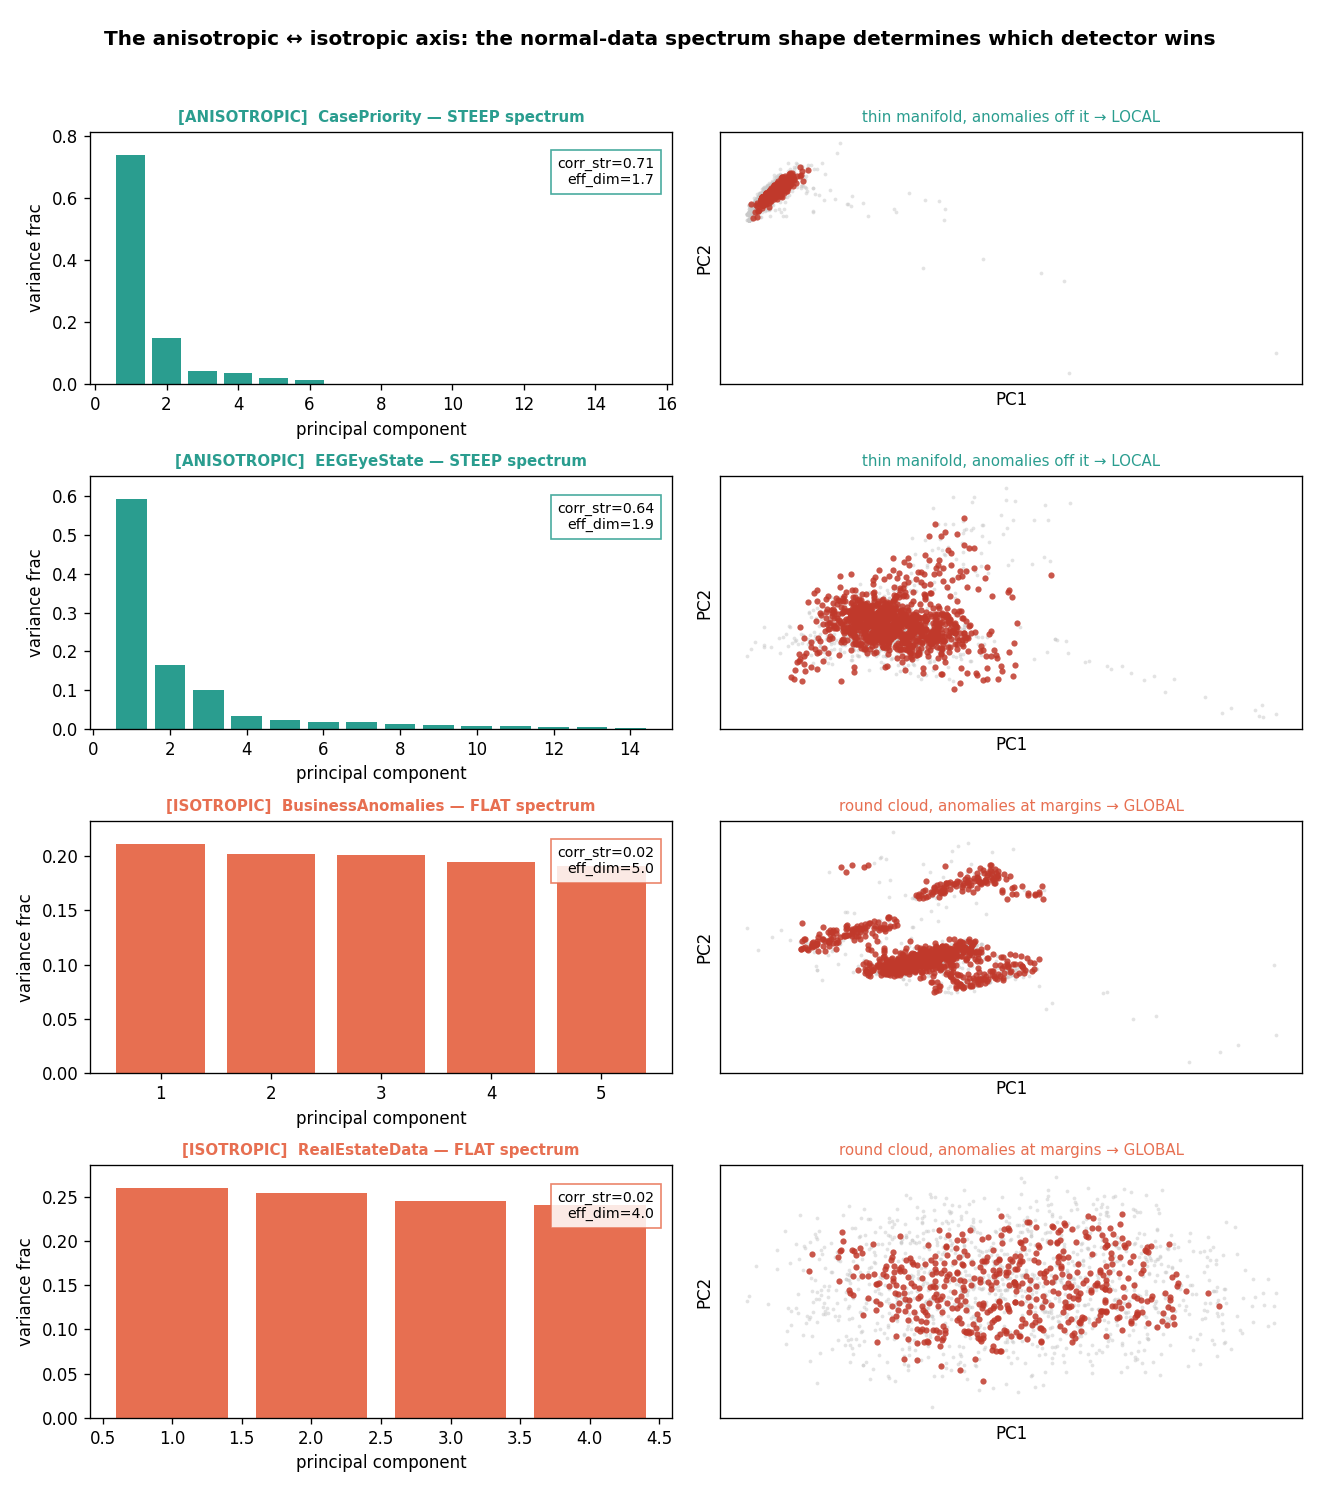
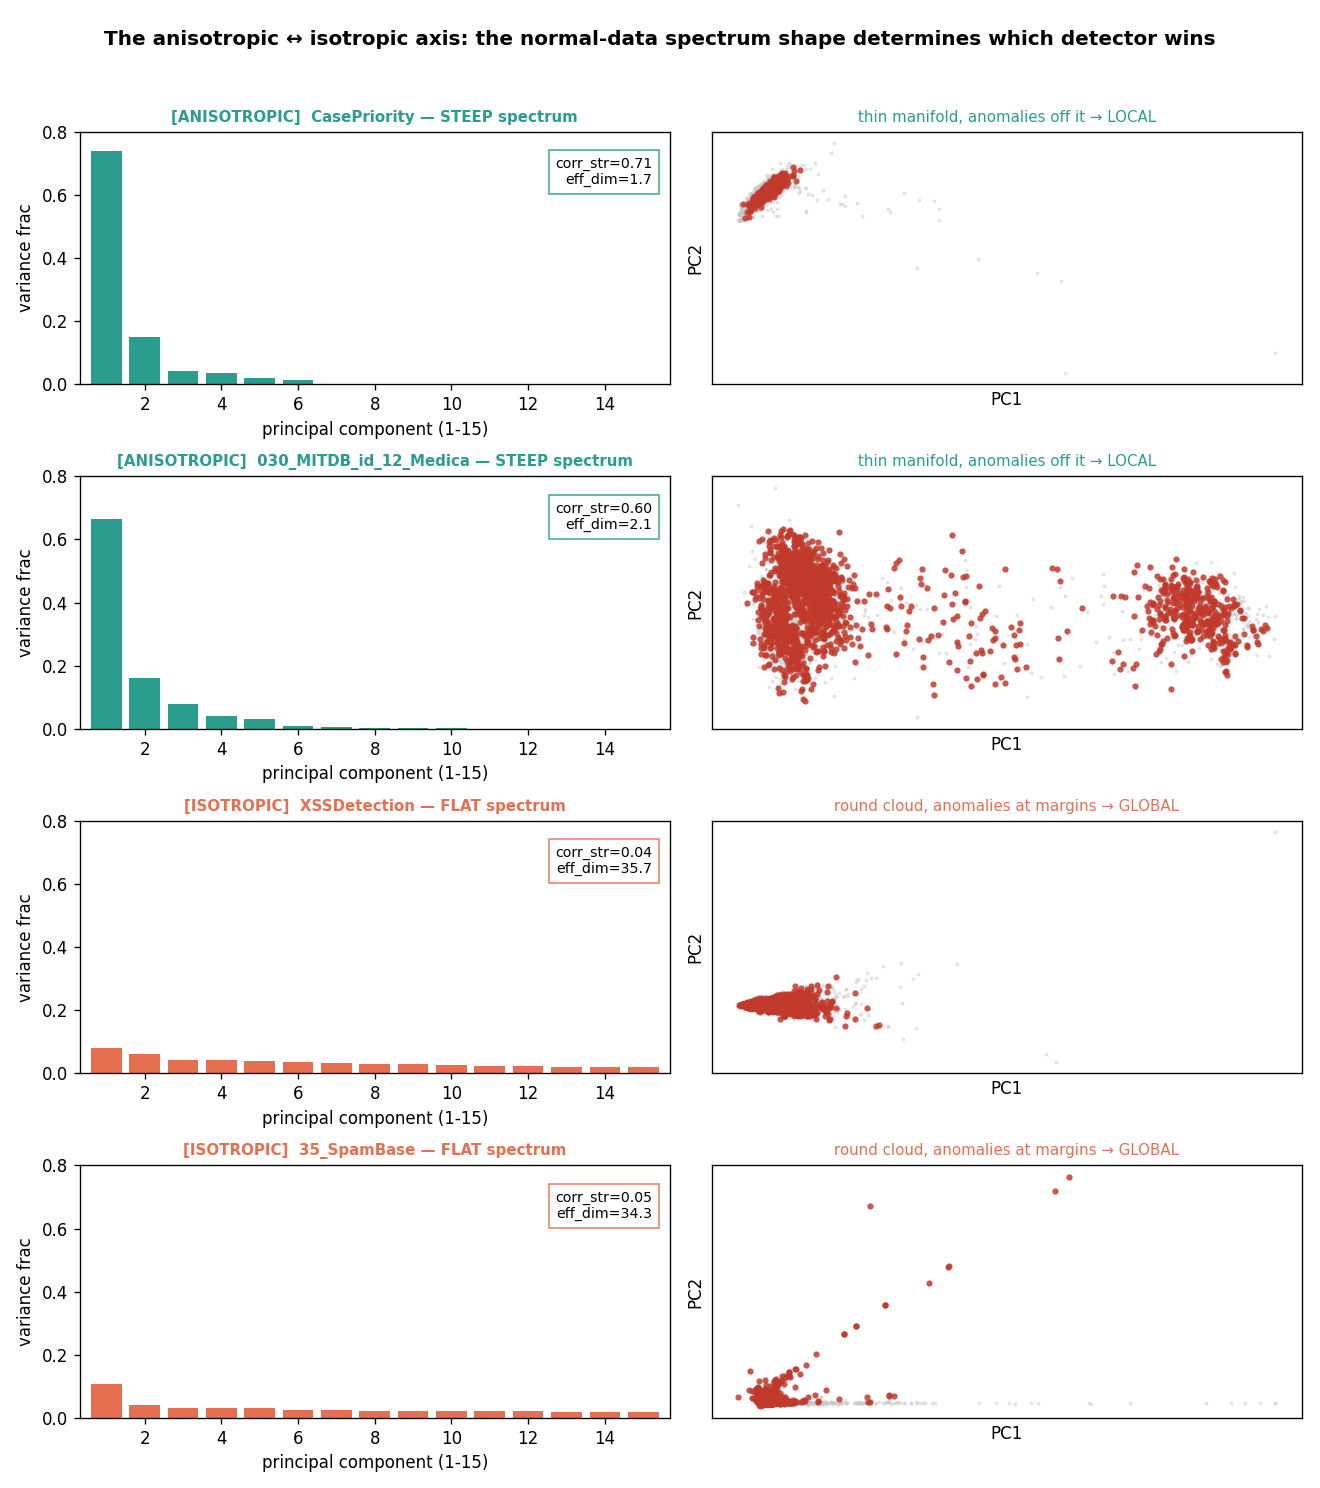
EDA visuals: anisotropic<->isotropic mechanism figure + refreshed spectrum figure
- eda_mechanism.py / FIG_mechanism.png: 2-row (anisotropic/isotropic) x 3-col
  mechanism panel. Col1 most-correlated feature pair (dependency anomalies sit
  off the correlation line, in-range per-axis); col2 marginal histogram of the
  best-separating single feature (anisotropic anomalies overlap normals /
  marginally invisible, isotropic form a separate tail); col3 KNN(local) vs
  HBOS(global) detector scores. Exemplars CasePriority (corr_str 0.71) vs
  BusinessAnomalies (0.02).
- eda_spectrum.py / FIG_spectrum_eda.png: refreshed to common axes (first 15 PCs,
  fixed ylim/xlim) so the steep-vs-flat spectrum contrast reads on a shared scale.

diff --git a/experiments/streamline/eda_mechanism.py b/experiments/streamline/eda_mechanism.py
@@ -1,0 +1,97 @@
+# -*- coding: utf-8 -*-
+"""Mechanism figure: WHY the detector family flips. Row1 = ANISOTROPIC exemplar, Row2 = ISOTROPIC.
+Col1: most-correlated feature PAIR (normals grey + anomalies red) - dependency anomalies sit OFF the
+correlation line while in-range on each axis; isotropic anomalies sit at the margins of a round blob.
+Col2: marginal histogram of the single best-separating feature - anomalies OVERLAP normals (anisotropic:
+marginally invisible) vs form a separate tail (isotropic: marginally visible).
+Col3: local (KNN) vs global (HBOS) detector score - which detector actually separates the anomalies."""
+import os, sys, warnings
+import numpy as np, pandas as pd
+import matplotlib; matplotlib.use("Agg"); import matplotlib.pyplot as plt
+from sklearn.preprocessing import StandardScaler
+from sklearn.decomposition import PCA
+from pyod.models.knn import KNN
+from pyod.models.hbos import HBOS
+warnings.filterwarnings("ignore")
+ROOT = r"E:\Projects\Submitted\ADRank"; S = r"E:\tmp\claude\E--Projects-Submitted-ADRank\236d6247-42ad-4e62-9828-db625dfa055d"
+D = os.path.join(S, "scratchpad", "streamline"); sys.path.insert(0, os.path.join(S, "scratchpad")); sys.path.insert(0, os.path.join(ROOT, "src"))
+import adrank.pipeline as PP
+from hadb_ts_final import W, STRIDE, block_split3
+from hadb_ts_mts import mts_window_features, window_labels as mts_wlabels, load_mts
+Q = 0.05
+OBJ = {}
+for sub in ("adbench", "dami"):
+    dd = os.path.join(ROOT, "data", sub)
+    if os.path.isdir(dd):
+        for ds in PP.load_npz_dir(dd): OBJ[(sub, str(ds.name)[:40])] = (np.nan_to_num(np.asarray(ds.X, float)), np.asarray(ds.y, int).ravel())
+MTS = {}
+for name, src, Xc, lab in load_mts(200): MTS[str(name)[:40]] = (Xc, lab)
+def severity(Xtr, X, bins=30):
+    n, d = X.shape; sev = np.zeros(n)
+    for j in range(d):
+        tr = np.sort(Xtr[:, j])
+        if tr[-1] - tr[0] < 1e-12: continue
+        m = len(tr); fb = np.searchsorted(tr, X[:, j], side="right") / m
+        cnt, edges = np.histogram(Xtr[:, j], bins=bins); dens = cnt / max(cnt.sum(), 1); b = np.clip(np.digitize(X[:, j], edges[1:-1]), 0, bins - 1)
+        sev = np.maximum(sev, np.maximum(-np.log(np.maximum(2 * np.minimum(fb, 1 - fb), 1.0 / (2 * m))), -np.log(dens[b] + 1e-9)))
+    return sev
+def harden(Xtr, Xhold, Xa):
+    tho = np.quantile(severity(Xtr, Xhold), 1 - Q); so_a = severity(Xtr, Xa)
+    try:
+        sc = StandardScaler().fit(Xtr); pca = PCA(n_components=0.95, whiten=True, random_state=0).fit(sc.transform(Xtr))
+        Ptr, Ph, Pa = pca.transform(sc.transform(Xtr)), pca.transform(sc.transform(Xhold)), pca.transform(sc.transform(Xa))
+        thp = np.quantile(severity(Ptr, Ph), 1 - Q); sp_a = severity(Ptr, Pa)
+    except Exception:
+        sp_a = np.zeros(len(Xa)); thp = np.inf
+    return Xa[~((so_a > tho) | (sp_a > thp))]
+def get3(corp, name):
+    if corp in ("oddbench", "ovrbench"):
+        d = np.load(os.path.join(ROOT, "data", corp, name + ".npz"), allow_pickle=True)
+        X = np.nan_to_num(np.vstack([np.asarray(d["train"], float), np.asarray(d["test"], float)])); y = np.concatenate([np.asarray(d["train_labels"]).ravel(), np.asarray(d["test_labels"]).ravel()]).astype(int); Xn, Xa = X[y == 0], X[y == 1]
+    elif corp in ("adbench", "dami"):
+        X, y = OBJ[(corp, name)]; Xn, Xa = X[y == 0], X[y == 1]
+    else:
+        Xc, lab = MTS[name]; Xw, st = mts_window_features(Xc); yw = mts_wlabels(lab, st); Xw = np.nan_to_num(Xw)
+        pos = np.arange(len(Xw)); tr, va, te = block_split3(yw, pos, 0); return Xw[tr][yw[tr] == 0], Xw[va][yw[va] == 0], Xw[te][yw[te] == 0], Xw[yw == 1]
+    r = np.random.default_rng(0)
+    if len(Xn) > 6000: Xn = Xn[r.choice(len(Xn), 6000, replace=False)]
+    idx = np.arange(len(Xn)); r.shuffle(idx); a, b = int(0.6 * len(idx)), int(0.8 * len(idx)); return Xn[idx[:a]], Xn[idx[a:b]], Xn[idx[b:]], Xa
+mine = pd.read_csv(os.path.join(D, "STREAM_MINE.csv"))
+def first_ok(cand):
+    for _, r in cand.iterrows():
+        try: Xtr, Xval, Xtn, Xa = get3(r.corpus, r.dataset)
+        except Exception: continue
+        if Xtr.shape[1] < 4 or len(Xtr) < 80 or len(Xa) < 15: continue
+        Xh = harden(Xtr, np.vstack([Xval, Xtn]), Xa)
+        if len(Xh) < 25: continue
+        return (r.corpus, r.dataset, r.corr_str, Xtr, Xtn, Xh)
+    return None
+exA = first_ok(mine[mine.fam == "local"].sort_values("corr_str", ascending=False))
+exI = first_ok(mine[mine.fam == "global"].sort_values("corr_str"))
+fig, axes = plt.subplots(2, 3, figsize=(15, 8.4))
+for row, (corp, name, cs, Xtr, Xtn, Xh) in enumerate([exA, exI]):
+    col = "#2a9d8f" if row == 0 else "#e76f51"; tag = "ANISOTROPIC" if row == 0 else "ISOTROPIC"
+    Z = StandardScaler().fit(Xtr); Ztr = Z.transform(Xtr); Zh = Z.transform(Xh)
+    # col1: most-correlated feature pair
+    C = np.corrcoef(Ztr.T); np.fill_diagonal(C, 0); i, j = np.unravel_index(np.argmax(np.abs(C)), C.shape); r_ij = C[i, j]
+    ax = axes[row, 0]; ax.scatter(Ztr[:, i], Ztr[:, j], s=6, c="#c8c8c8", alpha=.4, linewidths=0); ax.scatter(Zh[:, i], Zh[:, j], s=16, c="#c0392b", alpha=.8, linewidths=0)
+    ax.set_title(f"[{tag}] top feature pair (r={r_ij:+.2f})\n{'anomalies OFF the correlation line' if row==0 else 'anomalies at the cloud margin'}", fontsize=9, color=col)
+    ax.set_xlabel(f"feature {i}"); ax.set_ylabel(f"feature {j}")
+    # col2: marginal histogram of best-separating single feature
+    sep = np.abs(Zh.mean(0)) ; k = int(np.argmax(sep))
+    ax = axes[row, 1]; ax.hist(Ztr[:, k], bins=50, density=True, color="#9bb", alpha=.6, label="normal"); ax.hist(Zh[:, k], bins=30, density=True, color="#c0392b", alpha=.6, label="anomaly")
+    ax.set_title(f"best single feature (feat {k})\n{'anomalies OVERLAP normals (marginally invisible)' if row==0 else 'anomalies form a separate tail (visible)'}", fontsize=9, color=col)
+    ax.set_xlabel(f"feature {k} (standardized)"); ax.set_ylabel("density"); ax.legend(fontsize=8)
+    # col3: KNN (local) vs HBOS (global) detector score
+    kn = KNN(n_neighbors=10).fit(Xtr); hb = HBOS(n_bins=20).fit(Xtr)
+    Xte = np.vstack([Xtn, Xh]); yb = np.r_[np.zeros(len(Xtn)), np.ones(len(Xh))]
+    sk = kn.decision_function(Xte); sh = hb.decision_function(Xte)
+    def z(s): s = np.asarray(s, float); return (s - np.nanmedian(s)) / (np.nanstd(s) + 1e-9)
+    sk, sh = z(sk), z(sh); ax = axes[row, 2]
+    ax.scatter(sh[yb == 0], sk[yb == 0], s=6, c="#c8c8c8", alpha=.4, linewidths=0); ax.scatter(sh[yb == 1], sk[yb == 1], s=16, c="#c0392b", alpha=.8, linewidths=0)
+    ax.set_title(f"detector scores\n{'LOCAL(KNN) separates, GLOBAL(HBOS) does not' if row==0 else 'GLOBAL(HBOS) separates, LOCAL(KNN) less'}", fontsize=9, color=col)
+    ax.set_xlabel("HBOS (global) score"); ax.set_ylabel("KNN (local) score")
+    axes[row, 0].annotate(f"{name[:18]}\ncorr_str={cs:.2f}", xy=(-0.28, 0.5), xycoords="axes fraction", rotation=90, va="center", ha="center", fontsize=9, fontweight="bold", color=col)
+plt.suptitle("Why the detector family flips: dependency anomalies (anisotropic) are invisible per-feature and need a neighbor detector; marginal anomalies (isotropic) show in one feature and a histogram detector catches them", fontsize=10.5, fontweight="bold")
+plt.tight_layout(rect=[0.02, 0, 1, 0.95]); fig.savefig(os.path.join(D, "FIG_mechanism.png"), dpi=118)
+print("exemplars:", exA[1], round(exA[2], 2), "|", exI[1], round(exI[2], 2)); print("saved FIG_mechanism.png")

diff --git a/experiments/streamline/eda_spectrum.py b/experiments/streamline/eda_spectrum.py
@@ -55,12 +55,13 @@ def get3(corp, name):
 mine = pd.read_csv(os.path.join(D, "STREAM_MINE.csv"))
 aniso = mine[mine.fam == "local"].sort_values("corr_str", ascending=False)
 iso = mine[mine.fam == "global"].sort_values("corr_str")
+NPC = 15  # common x-axis: first NPC components for every panel
 def pick(cand, k=2):
     out = []
     for _, r in cand.iterrows():
         try: Xtr, Xval, Xtn, Xa = get3(r.corpus, r.dataset)
         except Exception: continue
-        if Xtr.shape[1] < 3 or len(Xtr) < 60 or len(Xa) < 15: continue
+        if not (NPC <= Xtr.shape[1] <= 60) or len(Xtr) < 60 or len(Xa) < 15: continue   # comparable dimensionality
         Xh = harden(Xtr, np.vstack([Xval, Xtn]), Xa)
         if len(Xh) < 20: continue
         out.append((r.corpus, r.dataset, r.corr_str, r.eff_dim, Xtr, Xh))
@@ -73,8 +74,8 @@ fig, axes = plt.subplots(len(rows), 2, figsize=(11, 3.1 * len(rows)))
 for i, (corp, name, cs, ed, Xtr, Xh) in enumerate(rows):
     sc = StandardScaler().fit(Xtr); Ztr = sc.transform(Xtr); pca = PCA().fit(Ztr); ev = pca.explained_variance_ratio_
     col = "#2a9d8f" if i < 2 else "#e76f51"; tag = "ANISOTROPIC" if i < 2 else "ISOTROPIC"
-    axs = axes[i, 0]; kk = min(15, len(ev)); axs.bar(range(1, kk + 1), ev[:kk], color=col)
-    axs.set_title(f"[{tag}]  {name[:22]} \u2014 {'STEEP' if i<2 else 'FLAT'} spectrum", fontsize=9, color=col, fontweight="bold"); axs.set_xlabel("principal component"); axs.set_ylabel("variance frac"); axs.set_ylim(0, max(ev[0] * 1.1, 0.1))
+    axs = axes[i, 0]; axs.bar(range(1, NPC + 1), ev[:NPC], color=col)
+    axs.set_title(f"[{tag}]  {name[:22]} \u2014 {'STEEP' if i<2 else 'FLAT'} spectrum", fontsize=9, color=col, fontweight="bold"); axs.set_xlabel("principal component (1-15)"); axs.set_ylabel("variance frac"); axs.set_ylim(0, 0.8); axs.set_xlim(0.3, NPC + 0.7)
     axs.text(0.97, 0.9, f"corr_str={cs:.2f}\neff_dim={ed:.1f}", transform=axs.transAxes, ha="right", va="top", fontsize=8.5, bbox=dict(fc="white", ec=col, alpha=.85))
     axc = axes[i, 1]; P2 = PCA(2, random_state=0).fit(Ztr); Pn = P2.transform(Ztr); Ph = P2.transform(sc.transform(Xh))
     rng = np.random.default_rng(0); Pn = Pn if len(Pn) <= 1200 else Pn[rng.choice(len(Pn), 1200, replace=False)]
